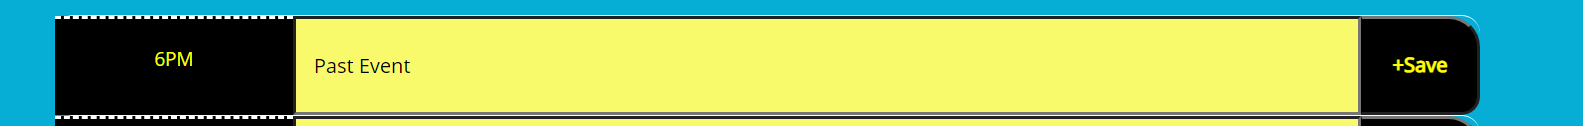
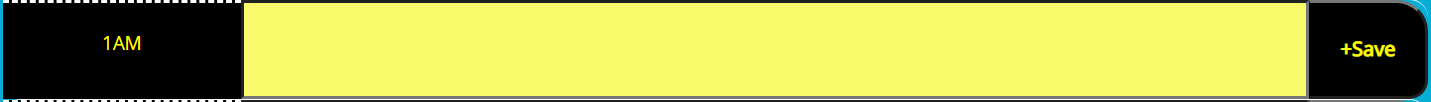
readMe image updates

diff --git a/script.js b/script.js
@@ -17,7 +17,7 @@ $(document).ready(function() {
     creatTimeBlockRows();
 
     function creatTimeBlockRows() {
-        for (var i = 18; i < 24; i++) {
+        for (var i = 8; i < 18; i++) {
             var timeBlockRow = $("<div>");
             timeBlockRow.attr("class", "row time-block");
             rowContainer.append(timeBlockRow);
